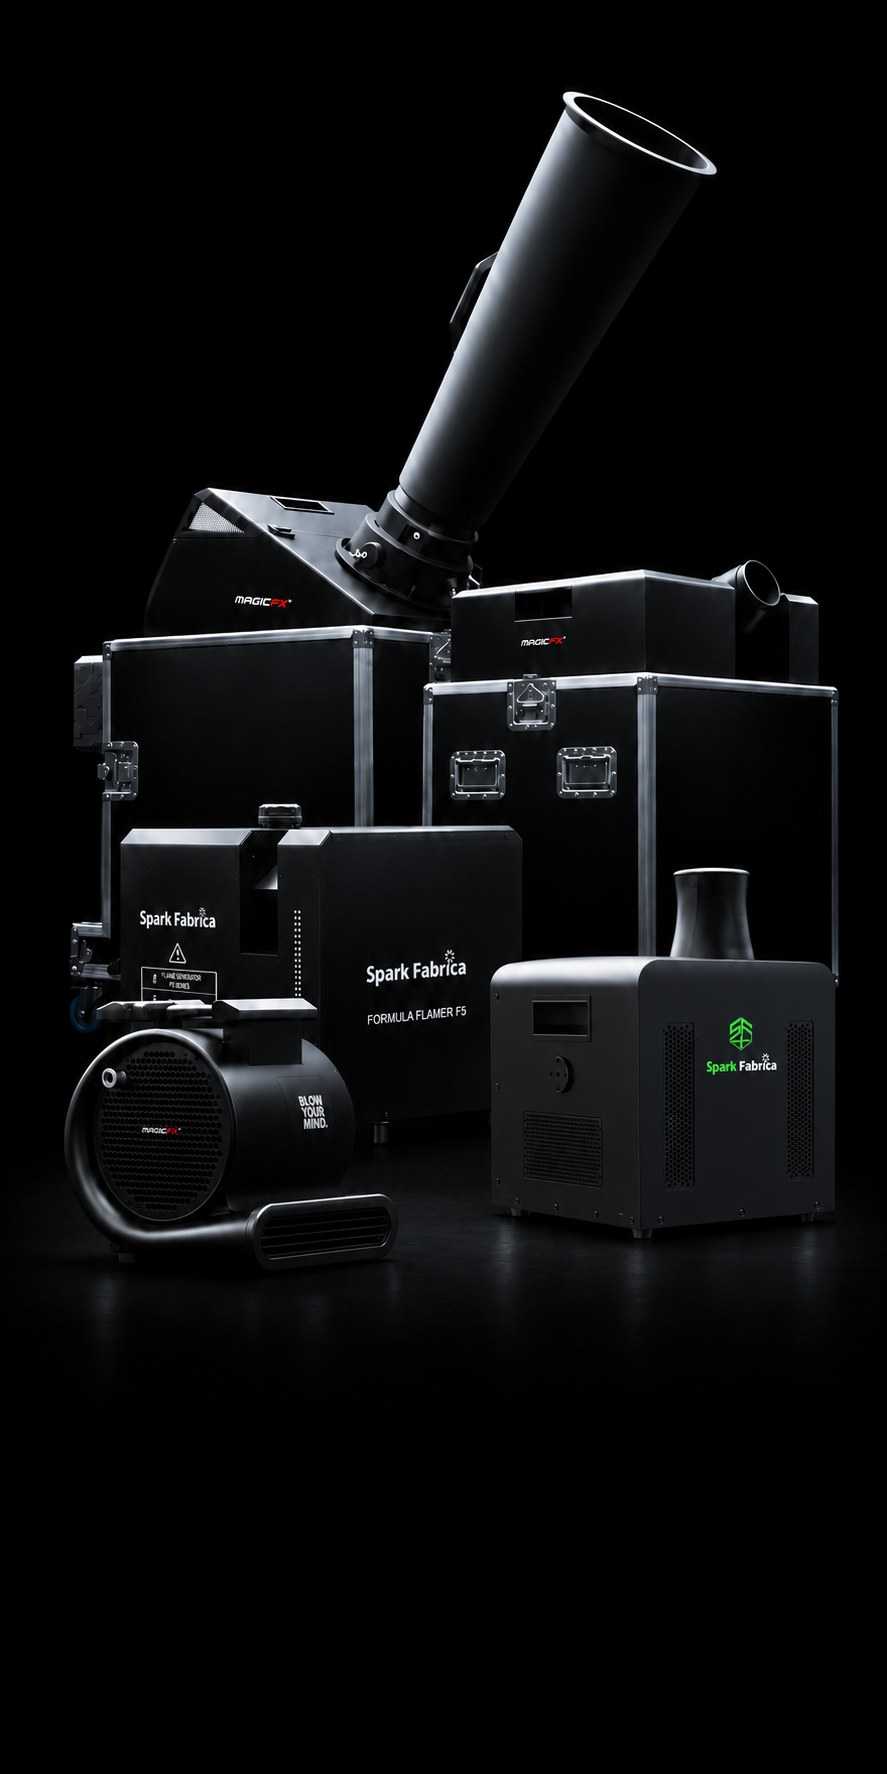
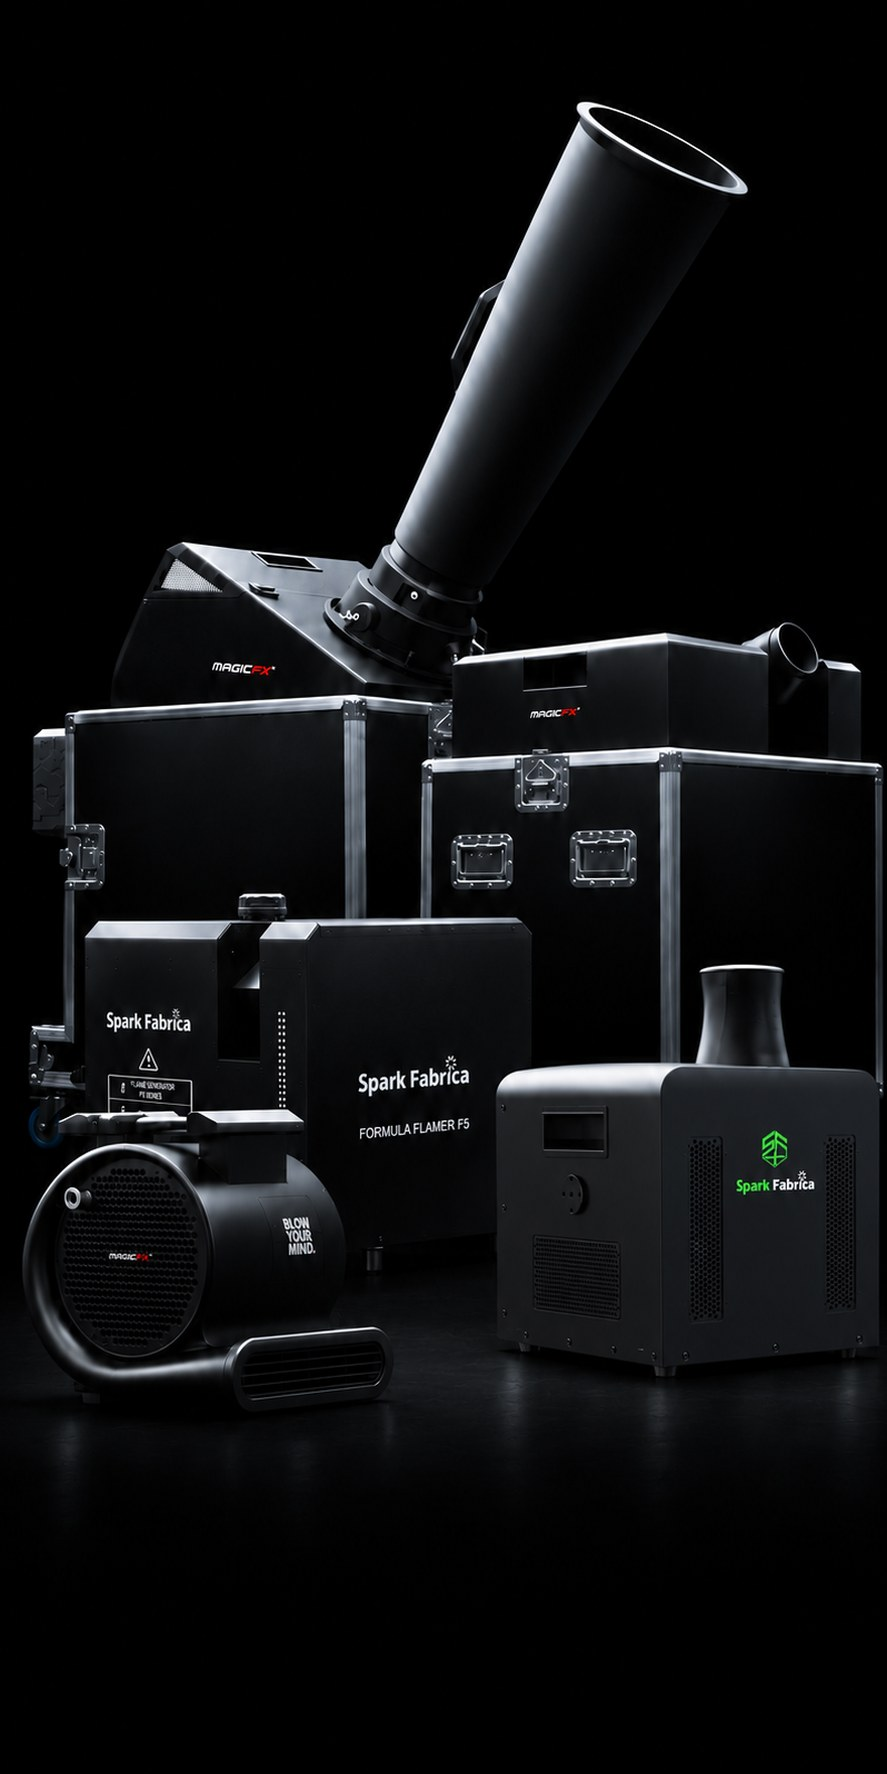
Startseite: SFX-Kachel mit SFX-Header, Rental-Bild etwas gezoomt
Claude-Session: https://claude.ai/code/session_01QhcQSyaPqWh9SfbxJbcUBo

Changed region(s): [[0.0304, 0.031, 1.0, 0.8371], [0.7001, 0.7441, 0.7914, 0.8371]]

diff --git a/index.html b/index.html
@@ -288,8 +288,8 @@
   <div class="wrap cards__grid">
     <a class="card" href="shows.html"><div class="card__img"><img loading="lazy" decoding="async" src="img/shows.jpg?v=5" alt="Buntes Feuerwerk über einer Rennbahn vor Publikum"></div><span class="card__label">SHOWS</span></a>
     <a class="card" href="shop.html"><div class="card__img"><img loading="lazy" decoding="async" src="img/vertrieb.jpg" alt="Paletten mit Feuerwerkskartons"></div><span class="card__label">SHOP</span></a>
-    <a class="card" href="effekte.html"><div class="card__img"><img loading="lazy" decoding="async" src="img/sfx.jpg?v=2" alt="Brennender Phönix im Feuerring"></div><span class="card__label">SPECIAL EFFECTS</span></a>
-    <a class="card" href="rental.html"><div class="card__img"><img loading="lazy" decoding="async" src="img/rental.jpg?v=2" alt="Fünf Effektgeräte von Magic FX und Spark Fabrica im schwarzen Studio"></div><span class="card__label">RENTAL</span></a>
+    <a class="card" href="effekte.html"><div class="card__img"><img loading="lazy" decoding="async" src="img/sfx.jpg?v=3" alt="Konzertpublikum vor einer Bühne mit CO2-Jets und Lichtstrahlen"></div><span class="card__label">SPECIAL EFFECTS</span></a>
+    <a class="card" href="rental.html"><div class="card__img"><img loading="lazy" decoding="async" src="img/rental.jpg?v=3" alt="Fünf Effektgeräte von Magic FX und Spark Fabrica im schwarzen Studio"></div><span class="card__label">RENTAL</span></a>
   </div>
 </section>
 
